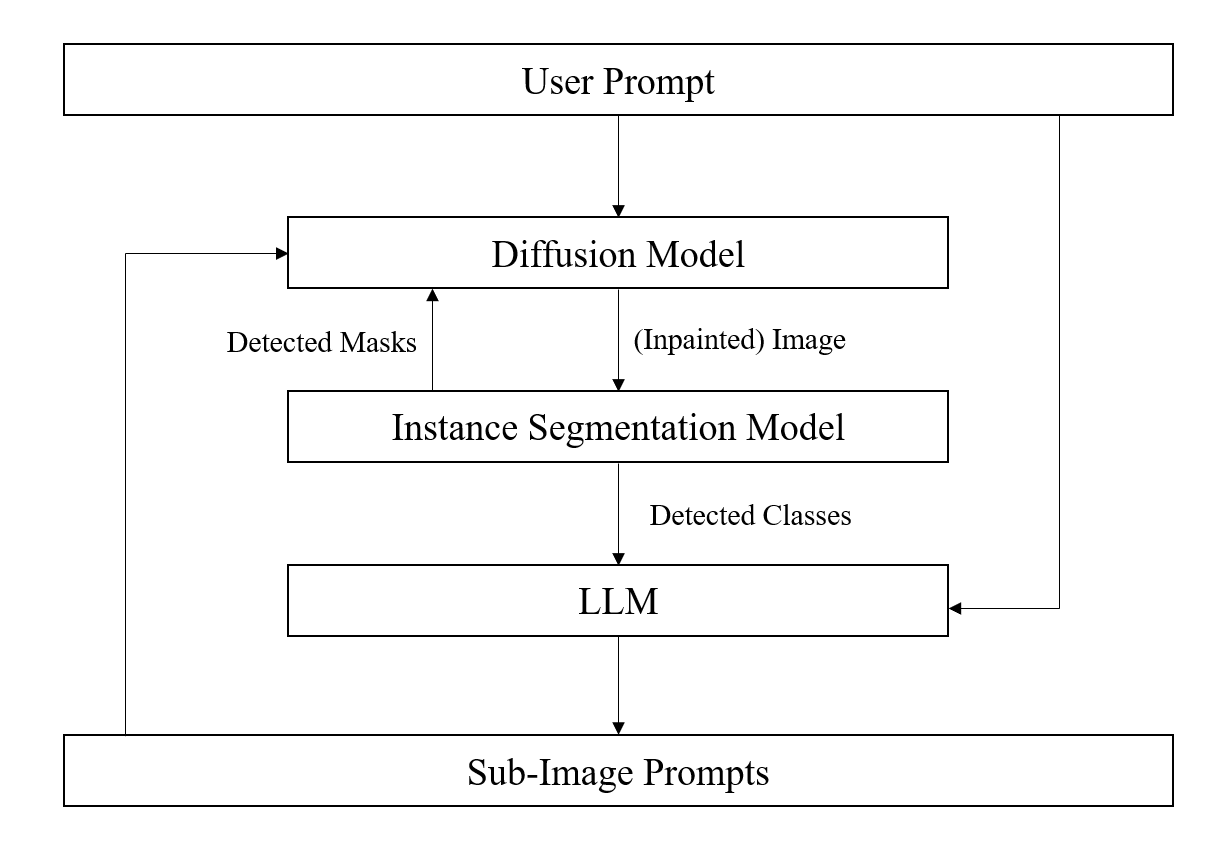
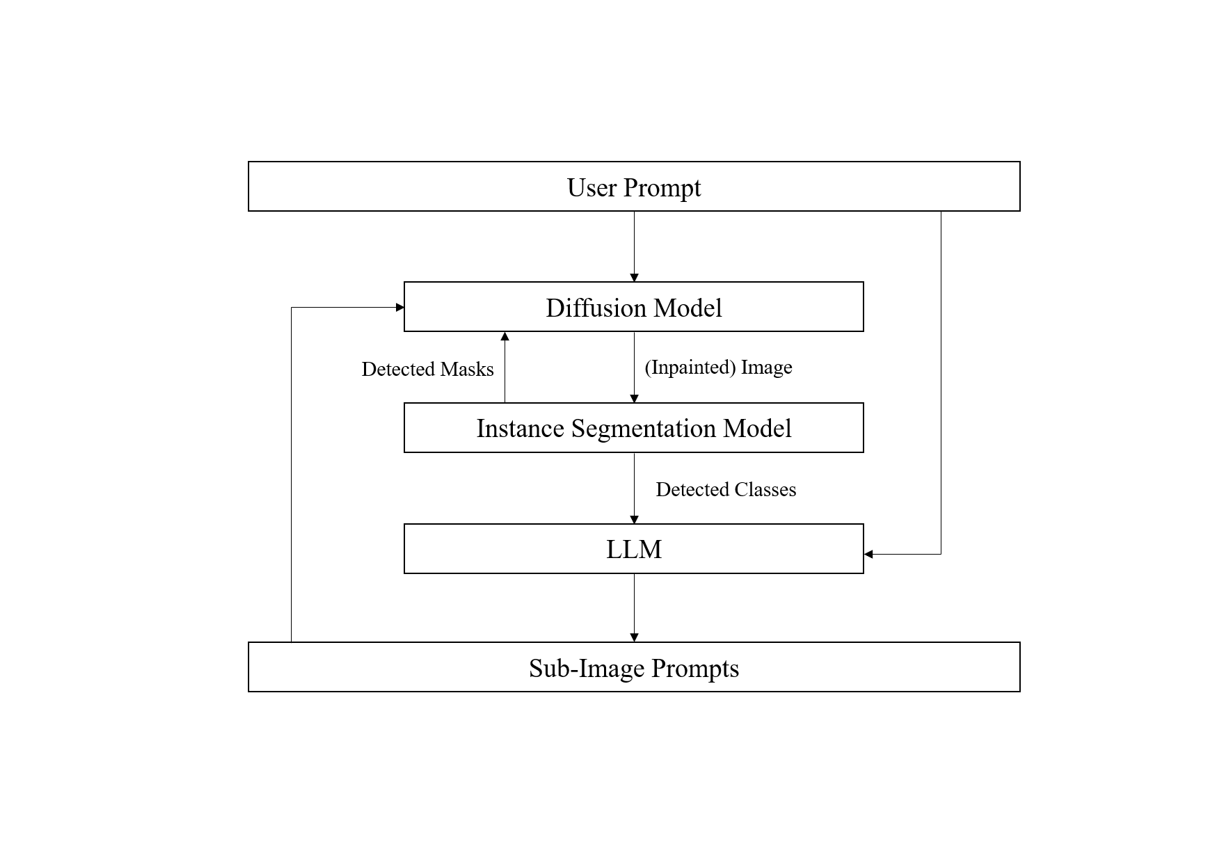
README update

diff --git a/README.md b/README.md
@@ -14,7 +14,7 @@ The pipeline is broken down into the following stages:
 
 A general overview of the pipeline is shown in the image below. To view a more detailed pipeline structure, refer to the assets folder.
 
-![Pipeline Overview](https://github.com/AWC2124R/GPT4-Contextual-Diffusion/blob/master/Assets/pipeline_overview.png){: width="800"}
+![Pipeline Overview](https://github.com/AWC2124R/GPT4-Contextual-Diffusion/blob/master/Assets/pipeline_overview.png)
 
 ## Examples
 The following is an example illustrating the enhancements achieved through the use of a GPT-4 integrated context pipeline for Stable Diffusion.
